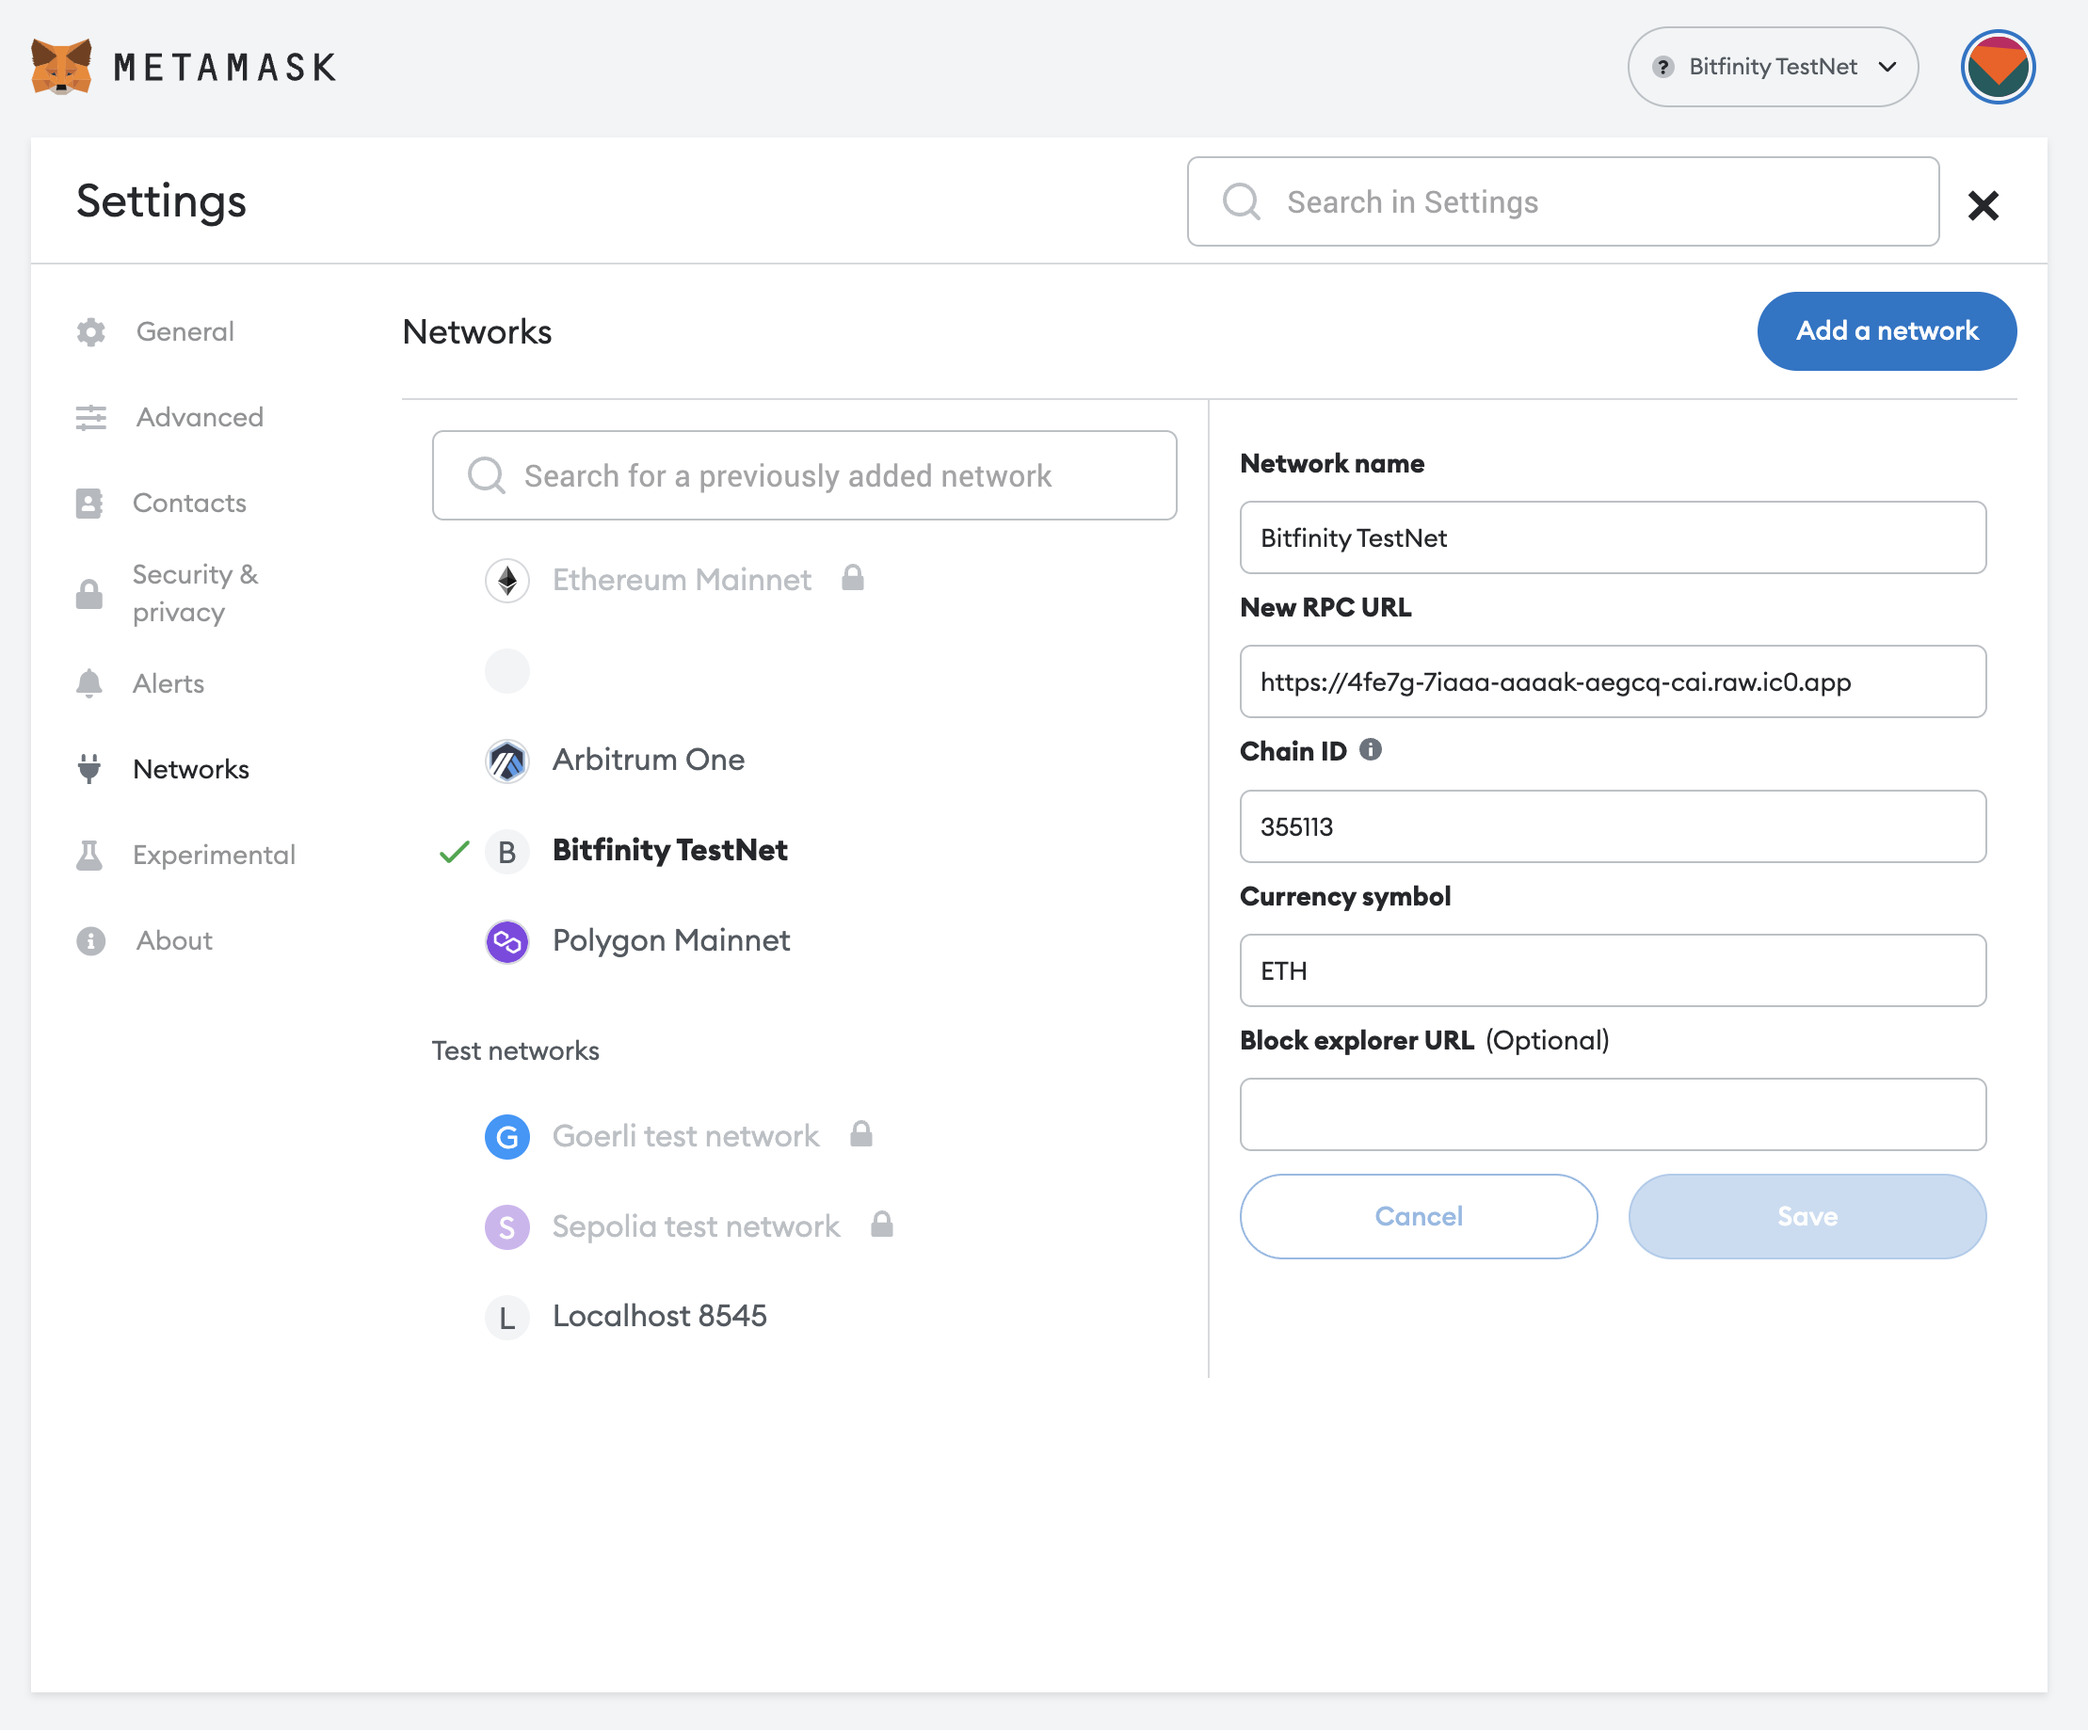
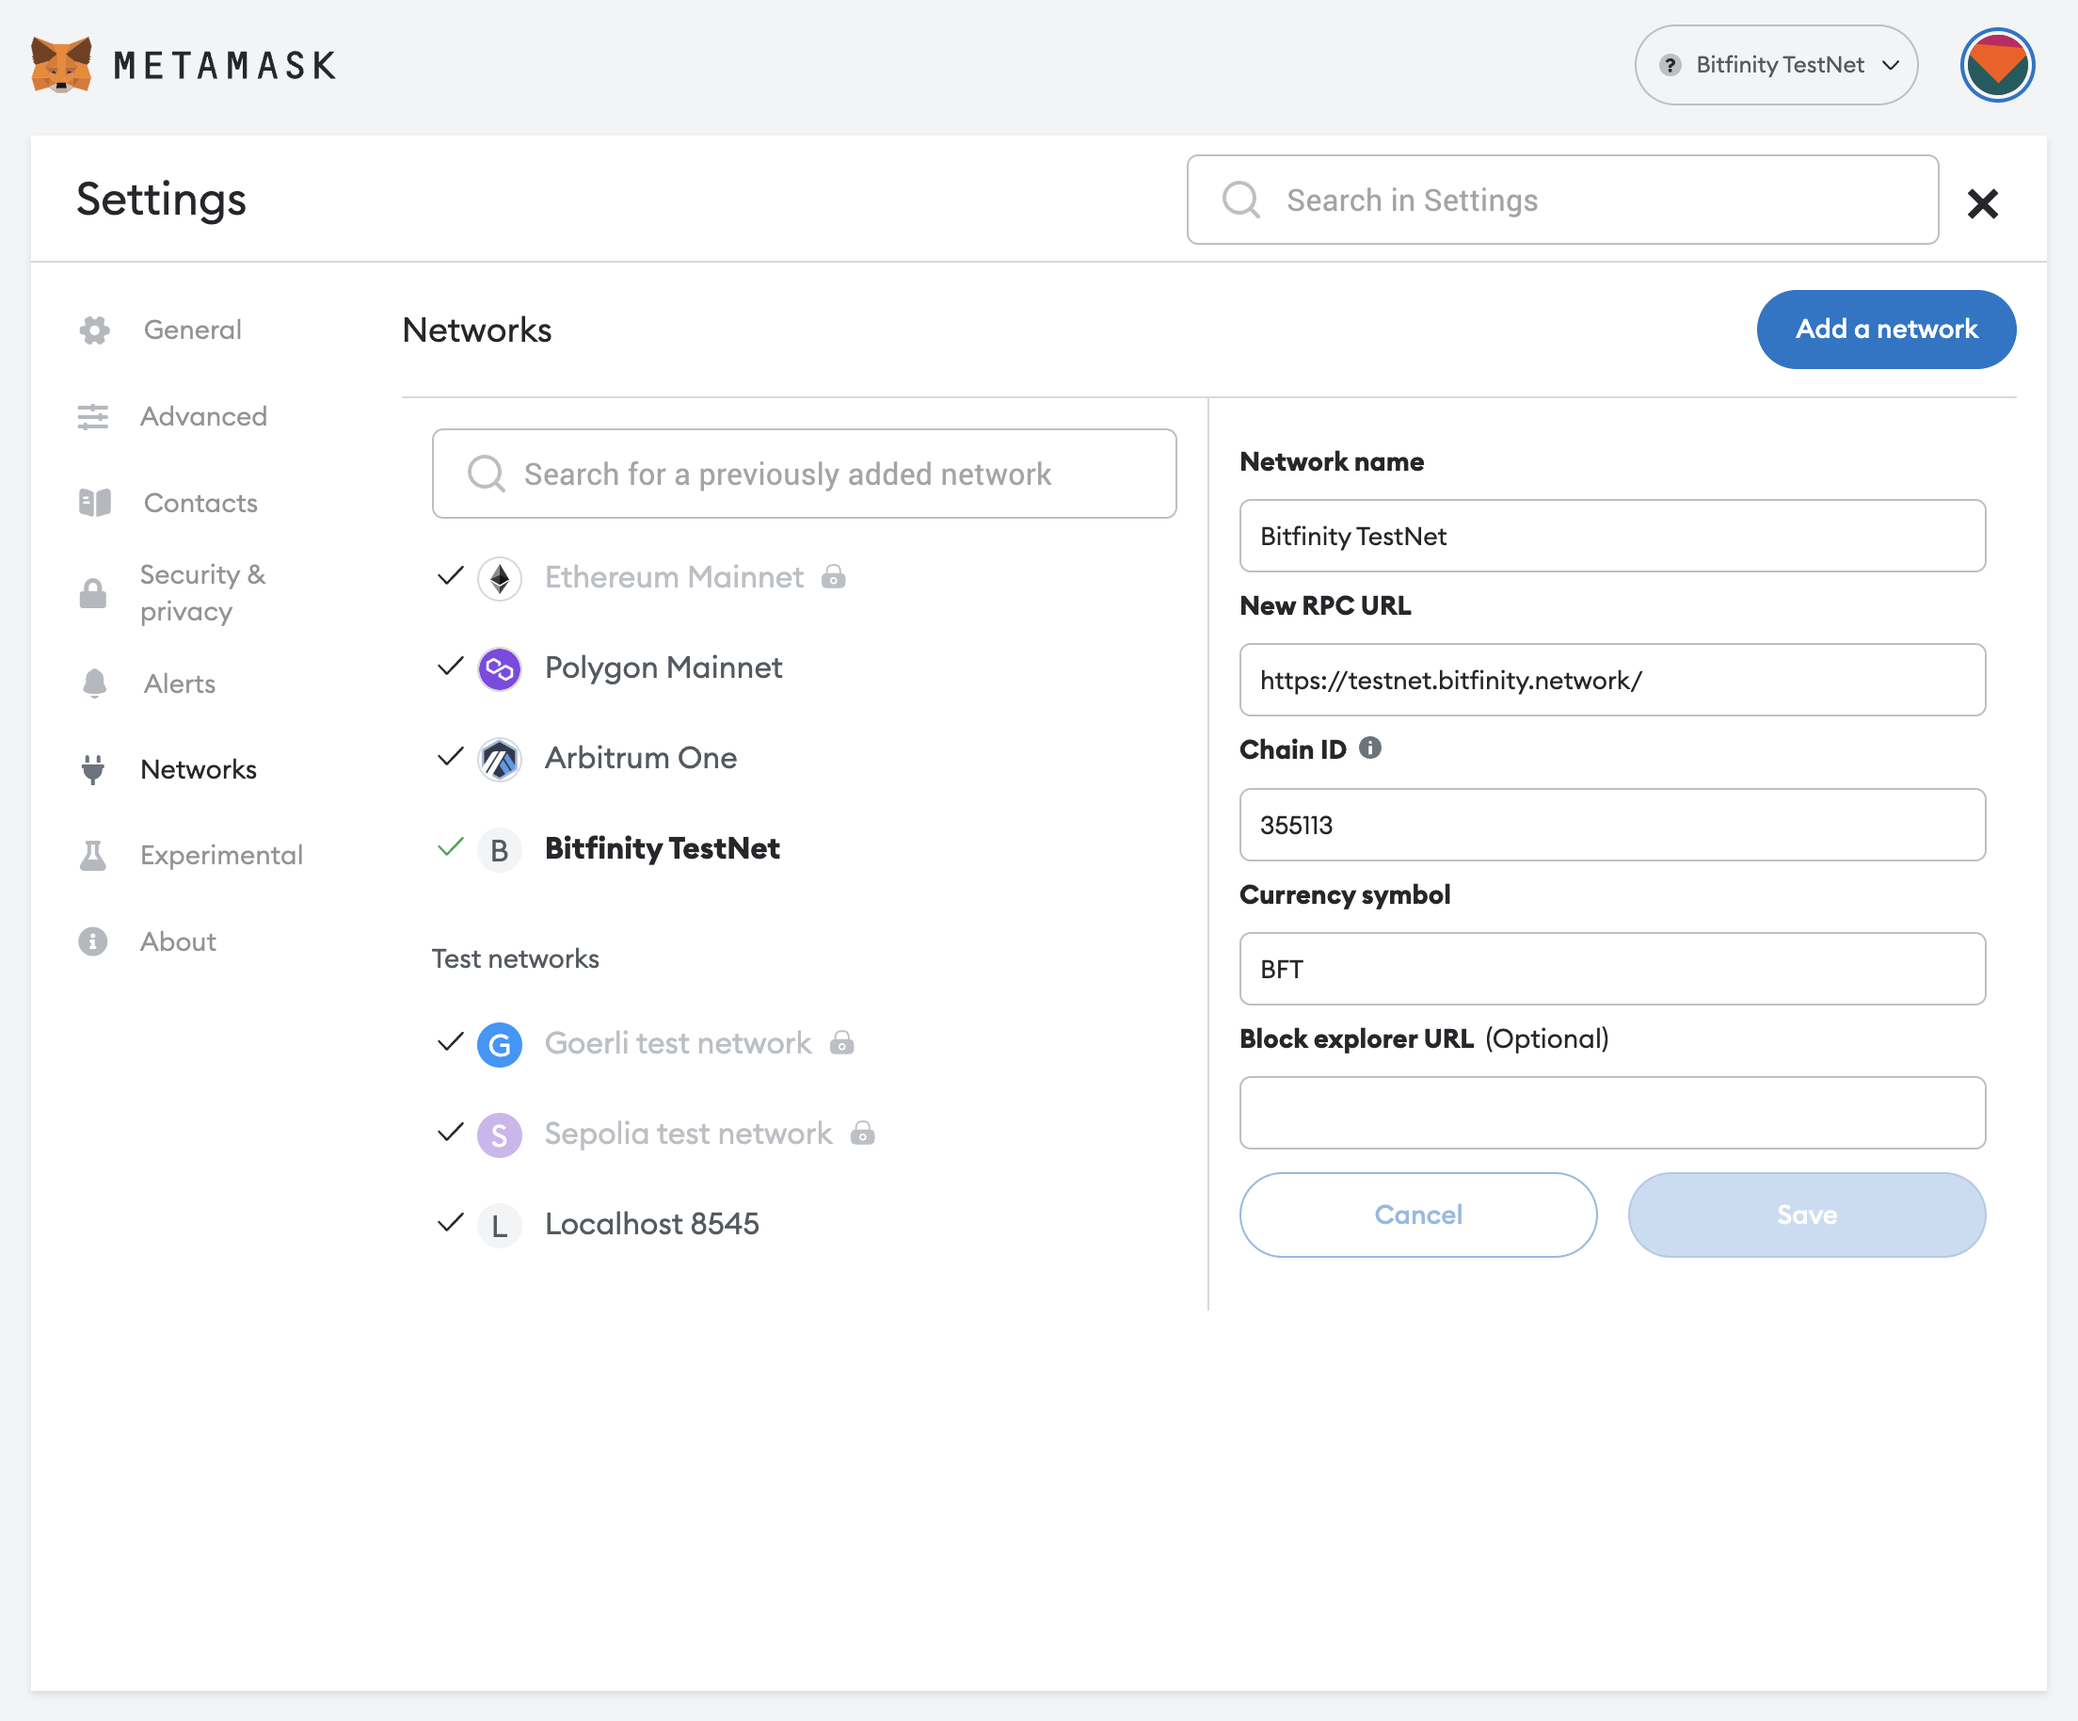
Update metamask_create_bitfinity_rpc.png and currency symbol

diff --git a/docs/interact/metamask.md b/docs/interact/metamask.md
@@ -28,7 +28,7 @@ Fill in the form with the following information:
 * Network Name: Bitfinity TestNet
 * New RPC URL: `https://testnet.bitfinity.network/`
 * Chain ID: 355113
-* Currency Symbol: ETH
+* Currency Symbol: BFT
 
 ![MetaMask-create-bitfinity-rpc](/img/metamask_create_bitfinity_rpc.png)
 
